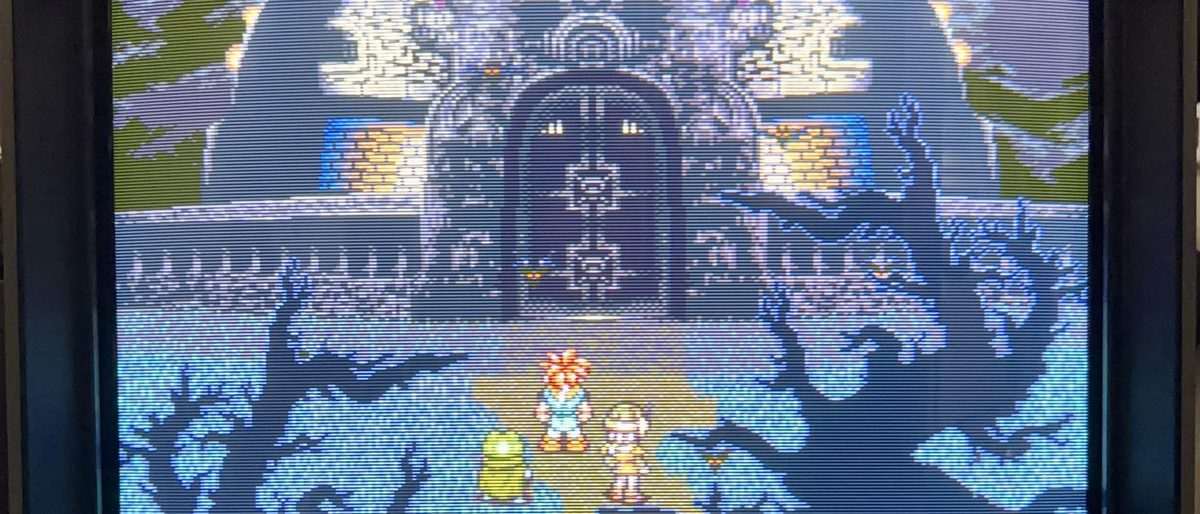
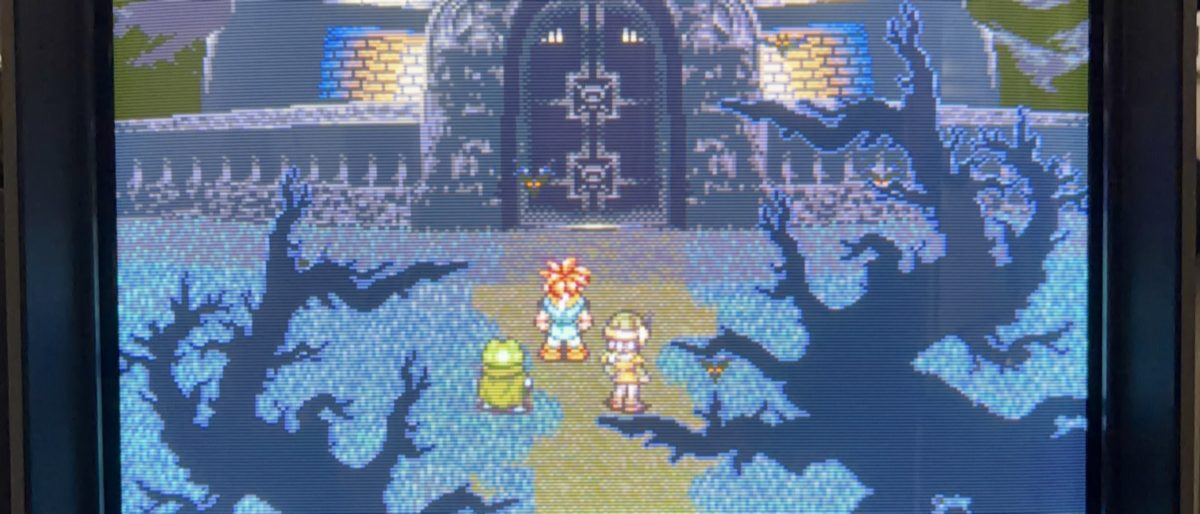
Fix the wavy Trinitron Fleet thumb and raise the PVM-vs-BVM one off the shelf
David: the Trinitron Fleet card 'seems to be altered or skewed, kind of looks
wavy'; on the PVM vs BVM card, 'move the image up to see more of the monitors
not what is underneath them.'

THE WAVE WAS MOIRE, not skew. Nothing was warped. The thumb was cut from the
already-downsized media/2026/bvm-20e1u-lit.jpg (1471x1600) at 1465x628 and
resampled to 1200 wide -- a reduction of only 0.82x. That leaves the Trinitron's
scanlines intact at a ~3.3px period in the delivered file, and the BROWSER then
scales the 1200px thumb down to the ~380px card, beating those scanlines into
visible bands. Measured: dominant vertical period 7.25px in the camera original,
4.05px in the site copy, 3.32px in the thumb at peak/median 60.

Fix: cut from the camera original (IMG_3903, 2636x2868) so the reduction is
2.2x, and pre-filter vertically (Gaussian sigmaY 2.0) so the scanline structure
is gone before the browser touches it. Simulated banding at 380px card width
drops 9.75 -> 4.6. Also re-centred: the band is now centred on the screen's own
midpoint (y 927-2056, 32.3%-71.7%) with symmetric bezel slivers, where the old
crop sat 7% high.

PVM vs BVM: y 373-972 -> 192-795 (12.0%-49.7%). Both monitors are whole, the
AMS-100 sits above the left one, and the shelf and console cubby that filled the
bottom third are out of frame. Same de-scanline pass (sigmaY 1.8) since this one
is two lit CRTs -- banding 22.6 -> 13.0. Source only exists at 1600px, so it
[…]

diff --git a/stories.html b/stories.html
@@ -160,7 +160,7 @@
         <p style="margin-top:.8rem;color:var(--cyan)">Read the story →</p>
       </a>
       <a class="card linked" href="trinitron-fleet-vol1.html">
-        <img class="cthumb" src="media/story-thumbs/story-trinitron-fleet-vol1.jpg" alt="" loading="lazy" decoding="async" width="1200" height="514">
+        <img class="cthumb" src="media/story-thumbs/story-trinitron-fleet-vol1.jpg?v=2" alt="" loading="lazy" decoding="async" width="1200" height="514">
         <span class="badge done">Magazine · Vol. 1</span>
         <h3>TRINITRON FLEET</h3>
         <p>An interactive magazine documenting the Sony professional monitor fleet — nine models, from the PVM-2950Q to the LMD-9050 squadron, and the calibration work that keeps them honest. Future volumes will follow as the fleet evolves.</p>
@@ -188,7 +188,7 @@
         <p style="margin-top:.8rem;color:var(--cyan)">Read the story →</p>
       </a>
       <a class="card linked" href="pvm-vs-bvm.html">
-        <img class="cthumb" src="media/story-thumbs/story-pvm-vs-bvm.jpg" alt="" loading="lazy" decoding="async" width="1200" height="514">
+        <img class="cthumb" src="media/story-thumbs/story-pvm-vs-bvm.jpg?v=2" alt="" loading="lazy" decoding="async" width="1200" height="514">
         <span class="badge plan">Did You Know?</span>
         <h3>The Best Screen for Retro Games Was Never Sold to Gamers</h3>
         <p>PVM vs. BVM: what Sony's professional monitors actually were, why RGB changes everything, and which one to buy today — answered from a fleet of fourteen.</p>
